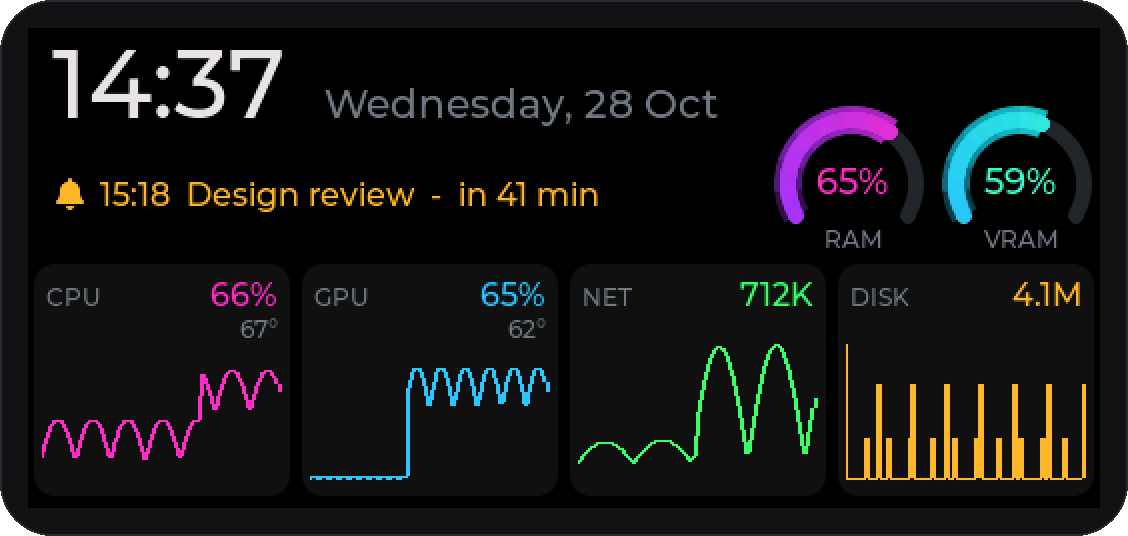
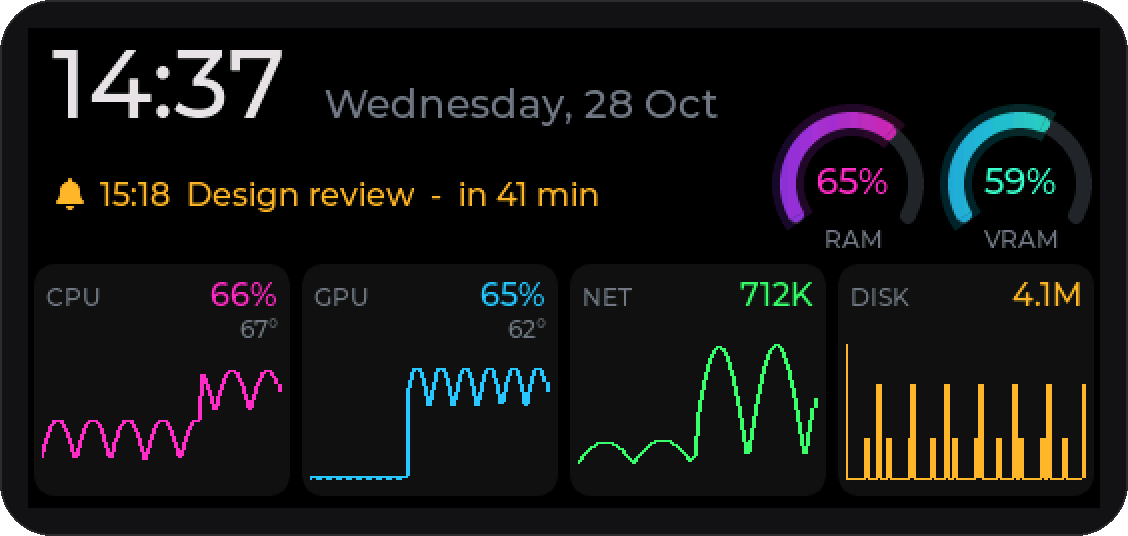
Dashboard rings: anti-aliased gradient fill with masks, translucent, round caps
- The stacked lv_draw_arc segments showed as steps on the panel. The fill
  and the glow are now one lv_draw_rect each with a horizontal gradient under
  an angle mask and two radius masks (ringArc), smooth all round; the fill is
  80 % opaque over the track, the glow 20 % and a little longer; the round
  caps are masked circles on the half outside the arc, so the translucent
  fill does not double up at the seam (ringCap).
- LVGL's gradient cache is keyed by the descriptor's address and size: with a
  stack descriptor the second ring got the first ring's colours. Each ring
  and layer owns a static lv_draw_rect_dsc_t now. Noted in CLAUDE.md.
- Screenshots re-rendered.

Changed region(s): [[0.8067, 0.1791, 0.9309, 0.4179], [0.6826, 0.1791, 0.8067, 0.4179]]

diff --git a/src/ui.cpp b/src/ui.cpp
@@ -1127,6 +1127,63 @@ static const uint32_t    ringColors[DASH_RINGS][2] = {{COLOR_VIOLET, COLOR_NEON}
 // A ring gauge: a dark track, the filled part a gradient from the ring's
 // first colour at the start to its second at the end (the fill reveals it)
 // with a soft glow, drawn as overlapping arcs from each step to the end
+// One masked, gradient-filled arc: outer radius `ro`, inner `ri`, from `a0` for `sweep`
+// degrees, horizontal gradient c0 -> c1 over the ring's box. The angle mask and the
+// two radius masks give anti-aliased edges all around (the stacked lv_draw_arc
+// segments used before showed as steps on the panel). `rd` must be static storage of
+// its own per ring and layer: LVGL's gradient cache is keyed by the descriptor's
+// ADDRESS and the size, so a stack descriptor served ring 2 ring 1's colours
+static void ringArc(lv_draw_ctx_t *ctx, lv_draw_rect_dsc_t *rd, lv_point_t c, lv_coord_t ro, lv_coord_t ri,
+                    uint16_t a0, uint16_t sweep, lv_color_t c0, lv_color_t c1, lv_opa_t opa)
+{
+    lv_area_t outer = {(lv_coord_t)(c.x - ro), (lv_coord_t)(c.y - ro), (lv_coord_t)(c.x + ro - 1), (lv_coord_t)(c.y + ro - 1)};
+    lv_area_t inner = {(lv_coord_t)(c.x - ri), (lv_coord_t)(c.y - ri), (lv_coord_t)(c.x + ri - 1), (lv_coord_t)(c.y + ri - 1)};
+    lv_draw_mask_angle_param_t am;
+    lv_draw_mask_radius_param_t mo, mi;
+    lv_draw_mask_angle_init(&am, c.x, c.y, a0, a0 + sweep);
+    lv_draw_mask_radius_init(&mo, &outer, LV_RADIUS_CIRCLE, false);
+    lv_draw_mask_radius_init(&mi, &inner, LV_RADIUS_CIRCLE, true);
+    int16_t ida = lv_draw_mask_add(&am, nullptr), ido = lv_draw_mask_add(&mo, nullptr), idi = lv_draw_mask_add(&mi, nullptr);
+    lv_draw_rect_dsc_init(rd);
+    rd->bg_opa = opa;
+    rd->bg_grad.dir = LV_GRAD_DIR_HOR;
+    rd->bg_grad.stops_count = 2;
+    rd->bg_grad.stops[0].color = c0;
+    rd->bg_grad.stops[0].frac = 0;
+    rd->bg_grad.stops[1].color = c1;
+    rd->bg_grad.stops[1].frac = 255;
+    lv_draw_rect(ctx, rd, &outer);
+    lv_draw_mask_remove_id(idi);
+    lv_draw_mask_remove_id(ido);
+    lv_draw_mask_remove_id(ida);
+    lv_draw_mask_free_param(&mi);
+    lv_draw_mask_free_param(&mo);
+    lv_draw_mask_free_param(&am);
+}
+
+// A round cap of diameter `w` centred on the arc's centre line at angle `ang`, kept to
+// the half outside the arc (angle mask [ang, ang + 90] or [ang - 90, ang]) so a
+// translucent fill does not double up where cap and arc would overlap
+static void ringCap(lv_draw_ctx_t *ctx, lv_point_t c, lv_coord_t rmid, lv_coord_t w, uint16_t ang, bool after,
+                    lv_color_t color, lv_opa_t opa)
+{
+    lv_coord_t x = c.x + (rmid * lv_trigo_cos(ang) >> LV_TRIGO_SHIFT);
+    lv_coord_t y = c.y + (rmid * lv_trigo_sin(ang) >> LV_TRIGO_SHIFT);
+    lv_coord_t h = w / 2;
+    lv_area_t a = {(lv_coord_t)(x - h), (lv_coord_t)(y - h), (lv_coord_t)(x + h - 1), (lv_coord_t)(y + h - 1)};
+    lv_draw_mask_angle_param_t am;
+    lv_draw_mask_angle_init(&am, c.x, c.y, after ? ang : (ang + 270) % 360, after ? ang + 90 : ang);
+    int16_t id = lv_draw_mask_add(&am, nullptr);
+    lv_draw_rect_dsc_t rd;
+    lv_draw_rect_dsc_init(&rd);
+    rd.radius = LV_RADIUS_CIRCLE;
+    rd.bg_color = color;
+    rd.bg_opa = opa;
+    lv_draw_rect(ctx, &rd, &a);
+    lv_draw_mask_remove_id(id);
+    lv_draw_mask_free_param(&am);
+}
+
 static void ringDrawEvent(lv_event_t *e)
 {
     uint8_t i = (uint8_t)(uintptr_t)lv_event_get_user_data(e);
@@ -1149,26 +1206,19 @@ static void ringDrawEvent(lv_event_t *e)
     if (sweep < 2)
         sweep = 2;
     lv_color_t c0 = lv_color_hex(ringColors[i][0]), c1 = lv_color_hex(ringColors[i][1]);
-    auto at = [&](uint16_t deg) { return lv_color_mix(c1, c0, (uint8_t)(deg * 255UL / RING_SWEEP)); };
-
-    d.rounded = 0;
-    d.opa = LV_OPA_30; // glow: a wider, fainter copy behind
-    d.width = RING_W + 6;
-    for (uint16_t s = 0; s < sweep; s += 24) {
-        d.color = at(s + 12);
-        lv_draw_arc(ctx, &d, &c, RING_R + 3, RING_A0 + s, RING_A0 + sweep);
-    }
-    d.opa = LV_OPA_COVER;
-    d.width = RING_W;
-    d.rounded = 1; // the first arc carries both round caps
-    for (uint16_t s = 0; s < sweep; s += 8) {
-        d.color = at(s + 4);
-        lv_draw_arc(ctx, &d, &c, RING_R, RING_A0 + s, RING_A0 + sweep);
-        d.rounded = 0;
-    }
-    d.rounded = 1; // the end cap in the colour the ring reached
-    d.color = at(sweep);
-    lv_draw_arc(ctx, &d, &c, RING_R, RING_A0 + sweep - 1, RING_A0 + sweep);
+    // The gradient runs left to right across the box; the colour the fill reaches at
+    // its end is read off the same ramp for the end cap
+    lv_coord_t xEnd = (RING_R * lv_trigo_cos(RING_A0 + sweep) >> LV_TRIGO_SHIFT);
+    lv_color_t cEnd = lv_color_mix(c1, c0, (uint8_t)((xEnd + RING_R) * 255 / (2 * RING_R)));
+    const lv_opa_t FILL = LV_OPA_80, GLOW = LV_OPA_20;
+    const uint16_t end = RING_A0 + sweep;
+    // glow: wider and fainter, running a little past both ends like the caps
+    static lv_draw_rect_dsc_t ringDsc[DASH_RINGS][2]; // see ringArc()
+    ringArc(ctx, &ringDsc[i][0], c, RING_R + 4, RING_R - RING_W - 4, RING_A0 - 6, sweep + 12, c0, c1, GLOW);
+    // the fill with its round caps
+    ringArc(ctx, &ringDsc[i][1], c, RING_R, RING_R - RING_W, RING_A0, sweep, c0, c1, FILL);
+    ringCap(ctx, c, RING_R - RING_W / 2, RING_W, RING_A0, false, c0, FILL);
+    ringCap(ctx, c, RING_R - RING_W / 2, RING_W, end % 360, true, cEnd, FILL);
 }
 
 static void makeDashboard()

diff --git a/CLAUDE.md b/CLAUDE.md
@@ -261,7 +261,11 @@ pin (USB port or charger).
   (`ui_show_dashboard`): clock 48 px + date "Wednesday, 28 Oct" 20 px along the top edge (RTC
   date via `display_rtc_read_date`, read every 30 s), the next-meeting line under them (the
   reminder card is moved down over that line and narrowed while the dashboard is shown), RAM / VRAM as two ring gauges (custom draw: 240° arc from
-  bottom-left, gradient = overlapping `lv_draw_arc` segments to the end + a faint wider glow),
+  bottom-left; fill and glow = `lv_draw_rect` with a horizontal gradient under an angle mask +
+  two radius masks (`ringArc()`, anti-aliased all round — stacked `lv_draw_arc` segments showed
+  as steps on the panel), round caps = masked circles on the half outside the arc. LVGL's
+  gradient cache is keyed by the dsc ADDRESS ^ size, so each ring / layer owns a static
+  `lv_draw_rect_dsc_t` — a stack dsc gave ring 2 ring 1's colours),
   4 tiles CPU / GPU / NET / DISK with 120-point lv_chart sparklines, 1 px per point, two
   samples averaged per point = 2 min (ext y arrays, rate tiles autoscale). Values go dim 5 s after the last packet.
 - `src/cal.*` — meetings from the PC: CTRL command 0x15 n × {id u16, start_in_min i16,
